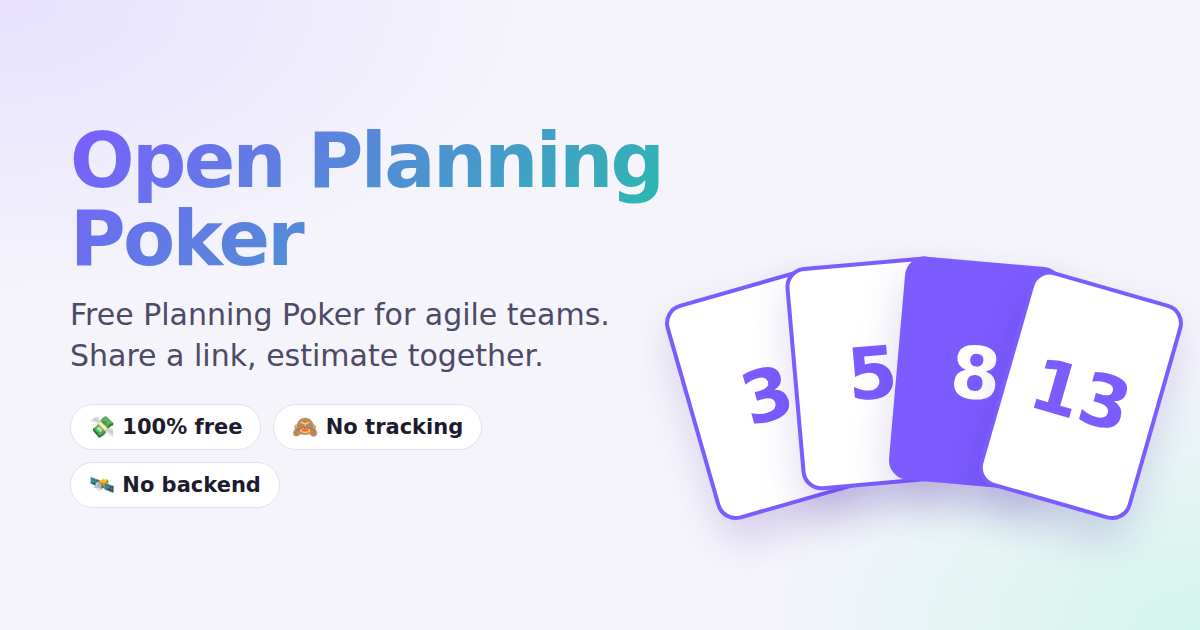
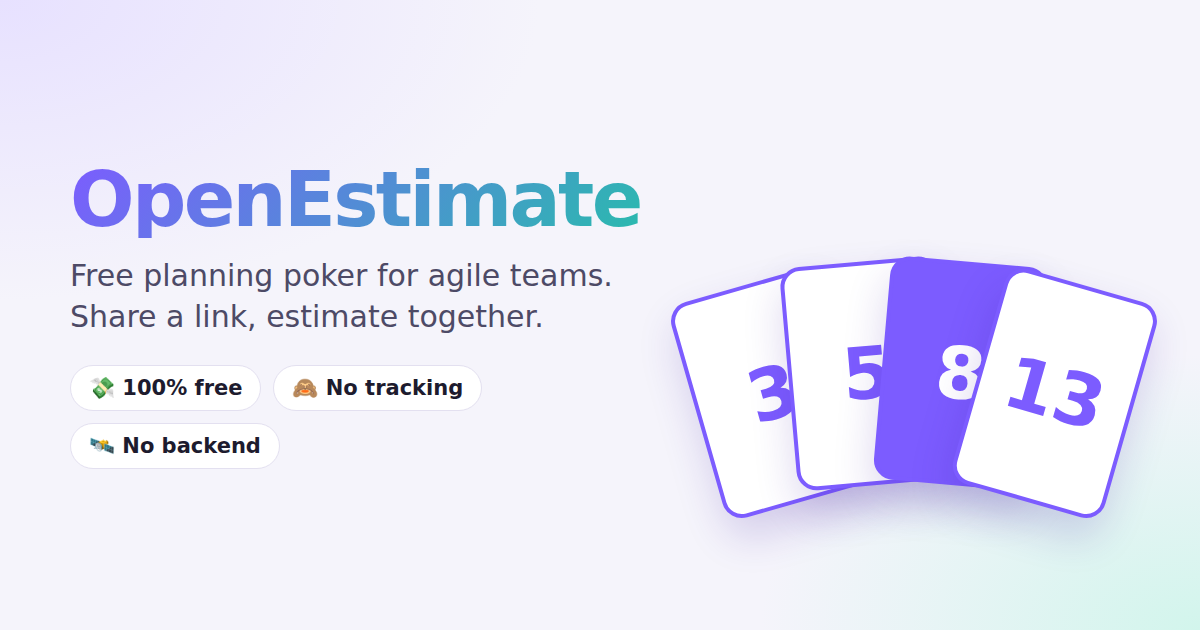
Rename app to OpenEstimate, add MIT license and third-party notices
- Rename to OpenEstimate to avoid using the Planning Poker® trademark as
  product name; the term is now only used descriptively
- Add trademark notice for Mountain Goat Software in the footer
- Add MIT LICENSE and generate licenses.txt with the license texts of
  all bundled runtime dependencies at build time
- Point site URL and GitHub links to the renamed openestimate repo

Claude-Session: https://claude.ai/code/session_01JfN6hdYmYY6CJF4tH5oHxE

diff --git a/index.html b/index.html
@@ -3,11 +3,12 @@
   <head>
     <meta charset="UTF-8" />
     <meta name="viewport" content="width=device-width, initial-scale=1.0" />
-    <title>Free Planning Poker Online – No Sign-up, No Tracking | Open Planning Poker</title>
+    <title>Free Planning Poker Online – No Sign-up, No Tracking | OpenEstimate</title>
     <meta name="description" content="Free online Planning Poker (Scrum Poker) for agile teams. Create a room, share the link and estimate story points together – no sign-up, no ads, no tracking, no backend. Open source." />
     <meta name="keywords" content="planning poker, scrum poker, planning poker online, free planning poker, agile estimation, story points, sprint planning, fibonacci, t-shirt sizing, planning poker kostenlos" />
     <meta name="robots" content="index, follow, max-image-preview:large" />
-    <meta name="author" content="Open Planning Poker" />
+    <meta name="author" content="OpenEstimate" />
+    <meta name="application-name" content="OpenEstimate" />
     <meta name="theme-color" content="#7c5cff" />
     <link rel="canonical" href="{{SITE_URL}}" />
     <link rel="icon" type="image/svg+xml" href="./favicon.svg" />
@@ -17,18 +18,18 @@
     <!--if:google-verification--><meta name="google-site-verification" content="{{GOOGLE_SITE_VERIFICATION}}" /><!--endif:google-verification-->
 
     <meta property="og:type" content="website" />
-    <meta property="og:site_name" content="Open Planning Poker" />
-    <meta property="og:title" content="Open Planning Poker – free, private Planning Poker for agile teams" />
+    <meta property="og:site_name" content="OpenEstimate" />
+    <meta property="og:title" content="OpenEstimate – free, private Planning Poker for agile teams" />
     <meta property="og:description" content="Create a room, share the link, estimate together. 100% free, no sign-up, no tracking, no backend." />
     <meta property="og:url" content="{{SITE_URL}}" />
     <meta property="og:image" content="{{SITE_URL}}og-image.png" />
     <meta property="og:image:width" content="1200" />
     <meta property="og:image:height" content="630" />
-    <meta property="og:image:alt" content="Open Planning Poker – cards on a table" />
+    <meta property="og:image:alt" content="OpenEstimate – cards on a table" />
     <meta property="og:locale" content="en_US" />
     <meta property="og:locale:alternate" content="de_DE" />
     <meta name="twitter:card" content="summary_large_image" />
-    <meta name="twitter:title" content="Open Planning Poker – free, private Planning Poker" />
+    <meta name="twitter:title" content="OpenEstimate – free, private Planning Poker" />
     <meta name="twitter:description" content="Create a room, share the link, estimate together. No sign-up, no tracking, no backend." />
     <meta name="twitter:image" content="{{SITE_URL}}og-image.png" />
 
@@ -38,9 +39,8 @@
         "@graph": [
           {
             "@type": "WebApplication",
-            "name": "Open Planning Poker",
-            "alternateName": ["Scrum Poker", "Planning Poker Online"],
-            "url": "{{SITE_URL}}",
+            "name": "OpenEstimate",
+                        "url": "{{SITE_URL}}",
             "image": "{{SITE_URL}}og-image.png",
             "description": "Free, open-source online Planning Poker for agile teams. Peer-to-peer, no sign-up, no tracking, no backend.",
             "applicationCategory": "BusinessApplication",
@@ -63,7 +63,7 @@
             "mainEntity": [
               {
                 "@type": "Question",
-                "name": "Is Open Planning Poker really free?",
+                "name": "Is OpenEstimate really free?",
                 "acceptedAnswer": { "@type": "Answer", "text": "Yes. It is completely free and open source – no paid plans, no ads, no limits on rooms or participants." }
               },
               {
@@ -98,7 +98,7 @@
   <body>
     <div id="app">
       <noscript>
-        <p style="text-align:center;padding:48px 16px">Open Planning Poker needs JavaScript to run. / Open Planning Poker benötigt JavaScript.</p>
+        <p style="text-align:center;padding:48px 16px">OpenEstimate needs JavaScript to run. / OpenEstimate benötigt JavaScript.</p>
       </noscript>
     </div>
 
@@ -112,7 +112,7 @@
 
       <h2 id="about-title" data-i18n="aboutTitle">Free online Planning Poker for agile teams</h2>
       <p class="lead" data-i18n="aboutLead">
-        Open Planning Poker is a fast, good-looking Scrum Poker app for sprint planning and story point estimation.
+        OpenEstimate is a fast, good-looking Scrum Poker app for sprint planning and story point estimation.
         Create a room, send the link to your team and start estimating – without accounts, ads or tracking.
         Votes go straight from browser to browser, so nothing ever lands on a server.
       </p>
@@ -154,7 +154,7 @@
       <h2 data-i18n="faqTitle">Frequently asked questions</h2>
       <div class="faq">
         <details>
-          <summary data-i18n="q1">Is Open Planning Poker really free?</summary>
+          <summary data-i18n="q1">Is OpenEstimate really free?</summary>
           <p data-i18n="a1">Yes. It is completely free and open source – no paid plans, no ads, no limits on rooms or participants.</p>
         </details>
         <details>
@@ -177,17 +177,19 @@
 
       <!--if:bmc-->
       <div class="support">
-        <p data-i18n="supportText">Open Planning Poker is free and stays free. If it saves your team time, you can buy me a coffee.</p>
+        <p data-i18n="supportText">OpenEstimate is free and stays free. If it saves your team time, you can buy me a coffee.</p>
         <a class="bmc" href="{{BMC_URL}}" target="_blank" rel="noopener">☕ <span data-i18n="supportBtn">Buy me a coffee</span></a>
       </div>
       <!--endif:bmc-->
     </section>
 
     <footer class="site-footer">
-      <span>© {{YEAR}} Open Planning Poker</span>
-      <a href="https://github.com/DavidReineke-main/openplanningpoker" target="_blank" rel="noopener">GitHub</a>
+      <span>© {{YEAR}} OpenEstimate</span>
+      <a href="https://github.com/DavidReineke-main/openestimate" target="_blank" rel="noopener">GitHub</a>
       <a href="./datenschutz.html" data-i18n="privacy">Privacy</a>
       <!--if:imprint--><a href="./impressum.html" data-i18n="imprint">Imprint</a><!--endif:imprint-->
+      <a href="./licenses.txt" data-i18n="licenses">Licenses</a>
+      <small class="tm" data-i18n="trademark">Planning Poker® is a registered trademark of Mountain Goat Software, LLC. OpenEstimate is an independent project and is not affiliated with Mountain Goat Software.</small>
     </footer>
 
     <div id="toasts" aria-live="polite"></div>

diff --git a/src/i18n.js b/src/i18n.js
@@ -95,7 +95,7 @@ const staticDe = {
   trustOss: 'Open Source',
   aboutTitle: 'Kostenloses Online-Planning-Poker für agile Teams',
   aboutLead:
-    'Open Planning Poker ist eine schnelle, schöne Scrum-Poker-App für Sprint Planning und Story-Point-Schätzungen. Raum erstellen, Link ans Team schicken und losschätzen – ohne Konto, Werbung oder Tracking. Die Stimmen gehen direkt von Browser zu Browser, nichts landet auf einem Server.',
+    'OpenEstimate ist eine schnelle, schöne Scrum-Poker-App für Sprint Planning und Story-Point-Schätzungen. Raum erstellen, Link ans Team schicken und losschätzen – ohne Konto, Werbung oder Tracking. Die Stimmen gehen direkt von Browser zu Browser, nichts landet auf einem Server.',
   f1t: 'Räume mit einem Klick',
   f1p: 'Raum erstellen und das Team per Link oder Raumcode einladen. Niemand muss sich registrieren.',
   f2t: 'Alle gängigen Kartensets',
@@ -113,7 +113,7 @@ const staticDe = {
   how2: '<strong>Einladungslink teilen</strong> mit deinem Team.',
   how3: '<strong>Abstimmen, aufdecken, diskutieren</strong> – dann die nächste Runde starten.',
   faqTitle: 'Häufige Fragen',
-  q1: 'Ist Open Planning Poker wirklich kostenlos?',
+  q1: 'Ist OpenEstimate wirklich kostenlos?',
   a1: 'Ja. Komplett kostenlos und Open Source – keine Bezahlpläne, keine Werbung, keine Begrenzung bei Räumen oder Teilnehmenden.',
   q2: 'Brauche ich ein Konto?',
   a2: 'Nein. Name eingeben, Raum erstellen, Einladungslink teilen. Niemand muss sich anmelden.',
@@ -123,10 +123,13 @@ const staticDe = {
   a4: 'Übliche Scrum-Teams bis etwa 15–20 Personen funktionieren gut. Da sich alle direkt verbinden, hängen sehr große Gruppen von den Browsern und Netzwerken der Teilnehmenden ab.',
   q5: 'Was ist Planning Poker?',
   a5: 'Planning Poker (auch Scrum Poker) ist eine Konsens-Technik zum Schätzen von Aufwänden in agilen Teams. Alle wählen verdeckt eine Karte, alle Karten werden gleichzeitig aufgedeckt und Unterschiede werden besprochen.',
-  supportText: 'Open Planning Poker ist kostenlos und bleibt es auch. Wenn es deinem Team Zeit spart, kannst du mir einen Kaffee spendieren.',
+  supportText: 'OpenEstimate ist kostenlos und bleibt es auch. Wenn es deinem Team Zeit spart, kannst du mir einen Kaffee spendieren.',
   supportBtn: 'Spendier mir einen Kaffee',
   privacy: 'Datenschutz',
   imprint: 'Impressum',
+  licenses: 'Lizenzen',
+  trademark:
+    'Planning Poker® ist eine eingetragene Marke der Mountain Goat Software, LLC. OpenEstimate ist ein unabhängiges Projekt und steht in keiner Verbindung zu Mountain Goat Software.',
 }
 
 export const lang = (navigator.language || 'en').toLowerCase().startsWith('de') ? 'de' : 'en'

diff --git a/datenschutz.html b/datenschutz.html
@@ -8,19 +8,19 @@
     <script>
       try { const t = localStorage.getItem('opp:theme'); if (t) document.documentElement.dataset.theme = JSON.parse(t) } catch {}
     </script>
-    <title>Datenschutzerklärung / Privacy Policy | Open Planning Poker</title>
-    <meta name="description" content="Datenschutzerklärung von Open Planning Poker: kein Backend, kein Tracking, keine Cookies." />
+    <title>Datenschutzerklärung / Privacy Policy | OpenEstimate</title>
+    <meta name="description" content="Datenschutzerklärung von OpenEstimate: kein Backend, kein Tracking, keine Cookies." />
     <link rel="canonical" href="{{SITE_URL}}datenschutz.html" />
   </head>
   <body>
     <main class="legal">
       <nav class="legal-nav">
-        <a class="brand" href="./"><img src="./favicon.svg" width="28" height="28" alt="" /><span>Open Planning Poker</span></a>
+        <a class="brand" href="./"><img src="./favicon.svg" width="28" height="28" alt="" /><span>OpenEstimate</span></a>
         <button class="icon-btn theme-btn" title="Design wechseln" aria-label="Design wechseln"><svg viewBox="0 0 24 24" width="18" height="18" fill="none" stroke="currentColor" stroke-width="2" stroke-linecap="round" stroke-linejoin="round"><path d="M21 12.8A9 9 0 1 1 11.2 3a7 7 0 0 0 9.8 9.8z"/></svg></button>
       </nav>
       <h1>Datenschutzerklärung</h1>
       <p class="summary">
-        <strong>Kurz gesagt:</strong> Open Planning Poker hat kein eigenes Backend und keine Datenbank. Es gibt kein Tracking, keine Analyse-Tools,
+        <strong>Kurz gesagt:</strong> OpenEstimate hat kein eigenes Backend und keine Datenbank. Es gibt kein Tracking, keine Analyse-Tools,
         keine Werbung und keine Cookies. Namen, Stimmen und Thema werden ausschließlich direkt zwischen den Browsern der Teilnehmenden
         eines Raums übertragen und nirgends zentral gespeichert. Technisch unvermeidbar ist, dass einige Dienste (Hosting, Verbindungsaufbau)
         deine IP-Adresse sehen – das ist unten genau beschrieben.
@@ -125,6 +125,8 @@
       <a href="./">← Zur App / Back to the app</a>
       <a href="./datenschutz.html">Datenschutz</a>
       <!--if:imprint--><a href="./impressum.html">Impressum</a><!--endif:imprint-->
+      <a href="./licenses.txt">Lizenzen</a>
+      <small class="tm">Planning Poker® ist eine eingetragene Marke der Mountain Goat Software, LLC. OpenEstimate steht in keiner Verbindung zu Mountain Goat Software.</small>
     </footer>
     <script type="module" src="./src/legal.js"></script>
   </body>

diff --git a/impressum.html b/impressum.html
@@ -8,13 +8,13 @@
     <script>
       try { const t = localStorage.getItem('opp:theme'); if (t) document.documentElement.dataset.theme = JSON.parse(t) } catch {}
     </script>
-    <title>Impressum | Open Planning Poker</title>
+    <title>Impressum | OpenEstimate</title>
     <meta name="robots" content="noindex, follow" />
   </head>
   <body>
     <main class="legal">
       <nav class="legal-nav">
-        <a class="brand" href="./"><img src="./favicon.svg" width="28" height="28" alt="" /><span>Open Planning Poker</span></a>
+        <a class="brand" href="./"><img src="./favicon.svg" width="28" height="28" alt="" /><span>OpenEstimate</span></a>
         <button class="icon-btn theme-btn" title="Design wechseln" aria-label="Design wechseln"><svg viewBox="0 0 24 24" width="18" height="18" fill="none" stroke="currentColor" stroke-width="2" stroke-linecap="round" stroke-linejoin="round"><path d="M21 12.8A9 9 0 1 1 11.2 3a7 7 0 0 0 9.8 9.8z"/></svg></button>
       </nav>
       <h1>Impressum</h1>
@@ -32,7 +32,7 @@
 
       <h2>Hinweise</h2>
       <p>
-        Open Planning Poker ist ein kostenloses, privat betriebenes Open-Source-Projekt ohne Gewinnerzielungsabsicht.
+        OpenEstimate ist ein kostenloses, privat betriebenes Open-Source-Projekt ohne Gewinnerzielungsabsicht.
         Freiwillige Unterstützungen („Buy me a coffee“) sind Spenden ohne Gegenleistung.
       </p>
 
@@ -45,14 +45,17 @@
 
       <h2>Urheberrecht</h2>
       <p>
-        Der Quellcode von Open Planning Poker ist auf
-        <a href="https://github.com/DavidReineke-main/openplanningpoker" target="_blank" rel="noopener">GitHub</a> öffentlich einsehbar.
+        Der Quellcode von OpenEstimate ist auf
+        <a href="https://github.com/DavidReineke-main/openestimate" target="_blank" rel="noopener">GitHub</a> öffentlich einsehbar und steht
+        unter der MIT-Lizenz. Verwendete Bibliotheken Dritter und deren Lizenzen: <a href="./licenses.txt">licenses.txt</a>.
       </p>
     </main>
     <footer class="site-footer">
       <a href="./">← Zur App / Back to the app</a>
       <a href="./datenschutz.html">Datenschutz</a>
       <!--if:imprint--><a href="./impressum.html">Impressum</a><!--endif:imprint-->
+      <a href="./licenses.txt">Lizenzen</a>
+      <small class="tm">Planning Poker® ist eine eingetragene Marke der Mountain Goat Software, LLC. OpenEstimate steht in keiner Verbindung zu Mountain Goat Software.</small>
     </footer>
     <script type="module" src="./src/legal.js"></script>
   </body>

diff --git a/vite.config.js b/vite.config.js
@@ -1,11 +1,35 @@
 import { defineConfig } from 'vite'
-import { resolve } from 'node:path'
+import { resolve, dirname } from 'node:path'
+import { readFileSync, readdirSync } from 'node:fs'
+import { createRequire } from 'node:module'
 import site from './site.config.js'
 
 const hasImprint = Boolean(site.owner?.name)
 
 const esc = (s) =>
   String(s ?? '').replace(/[&<>"']/g, (c) => ({ '&': '&amp;', '<': '&lt;', '>': '&gt;', '"': '&quot;', "'": '&#39;' })[c])
+
+// Collects the license texts of all runtime dependencies (they are bundled into the app, so their notices must ship too).
+function thirdPartyLicenses() {
+  const require = createRequire(import.meta.url)
+  const seen = new Map()
+  const visit = (name, from) => {
+    if (seen.has(name)) return
+    const pkgPath = createRequire(from).resolve(`${name}/package.json`)
+    const pkg = JSON.parse(readFileSync(pkgPath, 'utf8'))
+    const dir = dirname(pkgPath)
+    const file = readdirSync(dir).find((f) => /^licen[cs]e/i.test(f))
+    seen.set(name, { pkg, text: file ? readFileSync(resolve(dir, file), 'utf8').trim() : `License: ${pkg.license}` })
+    for (const dep of Object.keys(pkg.dependencies || {})) visit(dep, pkgPath)
+  }
+  const root = require('./package.json')
+  for (const dep of Object.keys(root.dependencies || {})) visit(dep, import.meta.url)
+  const own = readFileSync(resolve(import.meta.dirname, 'LICENSE'), 'utf8').trim()
+  const parts = [...seen.values()]
+    .sort((a, b) => a.pkg.name.localeCompare(b.pkg.name))
+    .map(({ pkg, text }) => `${pkg.name}@${pkg.version} (${pkg.license})\n${'-'.repeat(60)}\n${text}`)
+  return `OpenEstimate\n${'='.repeat(60)}\n${own}\n\n\nThird-party software included in this app\n${'='.repeat(60)}\n\n${parts.join('\n\n\n')}\n`
+}
 
 // Fills {{placeholders}} from site.config.js and drops <!--if:key-->…<!--endif:key--> blocks whose flag is off.
 function sitePlugin() {
@@ -34,6 +58,7 @@ function sitePlugin() {
         .replace(/\{\{(\w+)\}\}/g, (_, key) => esc(vars[key]))
     },
     generateBundle() {
+      this.emitFile({ type: 'asset', fileName: 'licenses.txt', source: thirdPartyLicenses() })
       const pages = ['', 'datenschutz.html', ...(hasImprint ? ['impressum.html'] : [])]
       const today = new Date().toISOString().slice(0, 10)
       const urls = pages

diff --git a/src/main.js b/src/main.js
@@ -3,7 +3,7 @@ import { t, translateStatic } from './i18n.js'
 import site from '../site.config.js'
 import './style.css'
 
-const APP_ID = 'openplanningpoker-v1'
+const APP_ID = 'openestimate-v1'
 // Optional: comma-separated Nostr relay URLs used for the WebRTC handshake (defaults to Trystero's public relays).
 const RELAYS = (import.meta.env.VITE_NOSTR_RELAYS || '').split(',').map((s) => s.trim()).filter(Boolean)
 
@@ -125,7 +125,7 @@ function renderHome() {
         <div class="fan" aria-hidden="true">
           <span>3</span><span>5</span><span>8</span><span>13</span><span>?</span>
         </div>
-        <h1>Open Planning Poker</h1>
+        <h1>OpenEstimate</h1>
         <p class="tagline">${t('tagline')}</p>
       </div>
       <section class="panel">
@@ -218,7 +218,7 @@ function enterRoom(roomId) {
 }
 
 function createSession(roomId) {
-  document.title = `${roomId} · Open Planning Poker`
+  document.title = `${roomId} · OpenEstimate`
 
   let state = store.get('room:' + roomId, null)
   if (!validState(state)) state = initialState(store.get('deck', 'fibonacci'))
@@ -243,7 +243,7 @@ function createSession(roomId) {
   const view = h(`
     <div class="room">
       <header class="topbar">
-        <a class="brand" href="#">${ICONS.logo}<span>Open Planning Poker</span></a>
+        <a class="brand" href="#">${ICONS.logo}<span>OpenEstimate</span></a>
         <div class="status"><span class="dot"></span><span class="status-text"></span></div>
         <div class="actions">
           <button class="btn invite">${ICONS.link}<span>${t('invite')}</span></button>

diff --git a/site.config.js b/site.config.js
@@ -1,7 +1,7 @@
 // Central site settings. Edit this file, commit, push – the site redeploys automatically.
 export default {
   // Public URL of the deployed app (used for canonical link, sitemap, social previews). Must end with "/".
-  url: 'https://davidreineke-main.github.io/openplanningpoker/',
+  url: 'https://davidreineke-main.github.io/openestimate/',
 
   // Your Buy Me a Coffee username (https://buymeacoffee.com/<username>). Leave empty to hide the button.
   buyMeACoffee: '',

diff --git a/src/style.css b/src/style.css
@@ -904,6 +904,12 @@ body.in-room .site-footer {
   font-size: 0.85rem;
   color: var(--muted);
 }
+.site-footer .tm {
+  flex-basis: 100%;
+  text-align: center;
+  font-size: 0.72rem;
+  opacity: 0.8;
+}
 .legal-links {
   display: flex;
   justify-content: center;

diff --git a/README.md b/README.md
@@ -1,9 +1,9 @@
-# Open Planning Poker
+# OpenEstimate
 
-A lightweight, good-looking Planning Poker app for agile teams – **no backend, no sign-up**.
+A lightweight, good-looking planning poker app for agile teams – **no backend, no sign-up**.
 Create a room, share the link, estimate together.
 
-**Live:** https://davidreineke-main.github.io/openplanningpoker/
+**Live:** https://davidreineke-main.github.io/openestimate/
 
 ## Features
 
@@ -72,3 +72,11 @@ VITE_NOSTR_RELAYS=wss://relay.example.com,wss://relay2.example.com npm run build
 
 Pushes to `main` are built and deployed by `.github/workflows/deploy.yml`.
 In the repository settings, set **Pages → Build and deployment → Source** to **GitHub Actions**.
+
+## License
+
+[MIT](LICENSE). Licenses of bundled third-party libraries are published with the app as `licenses.txt`.
+
+Planning Poker® is a registered trademark of Mountain Goat Software, LLC. OpenEstimate is an independent
+project and is not affiliated with Mountain Goat Software.
+
